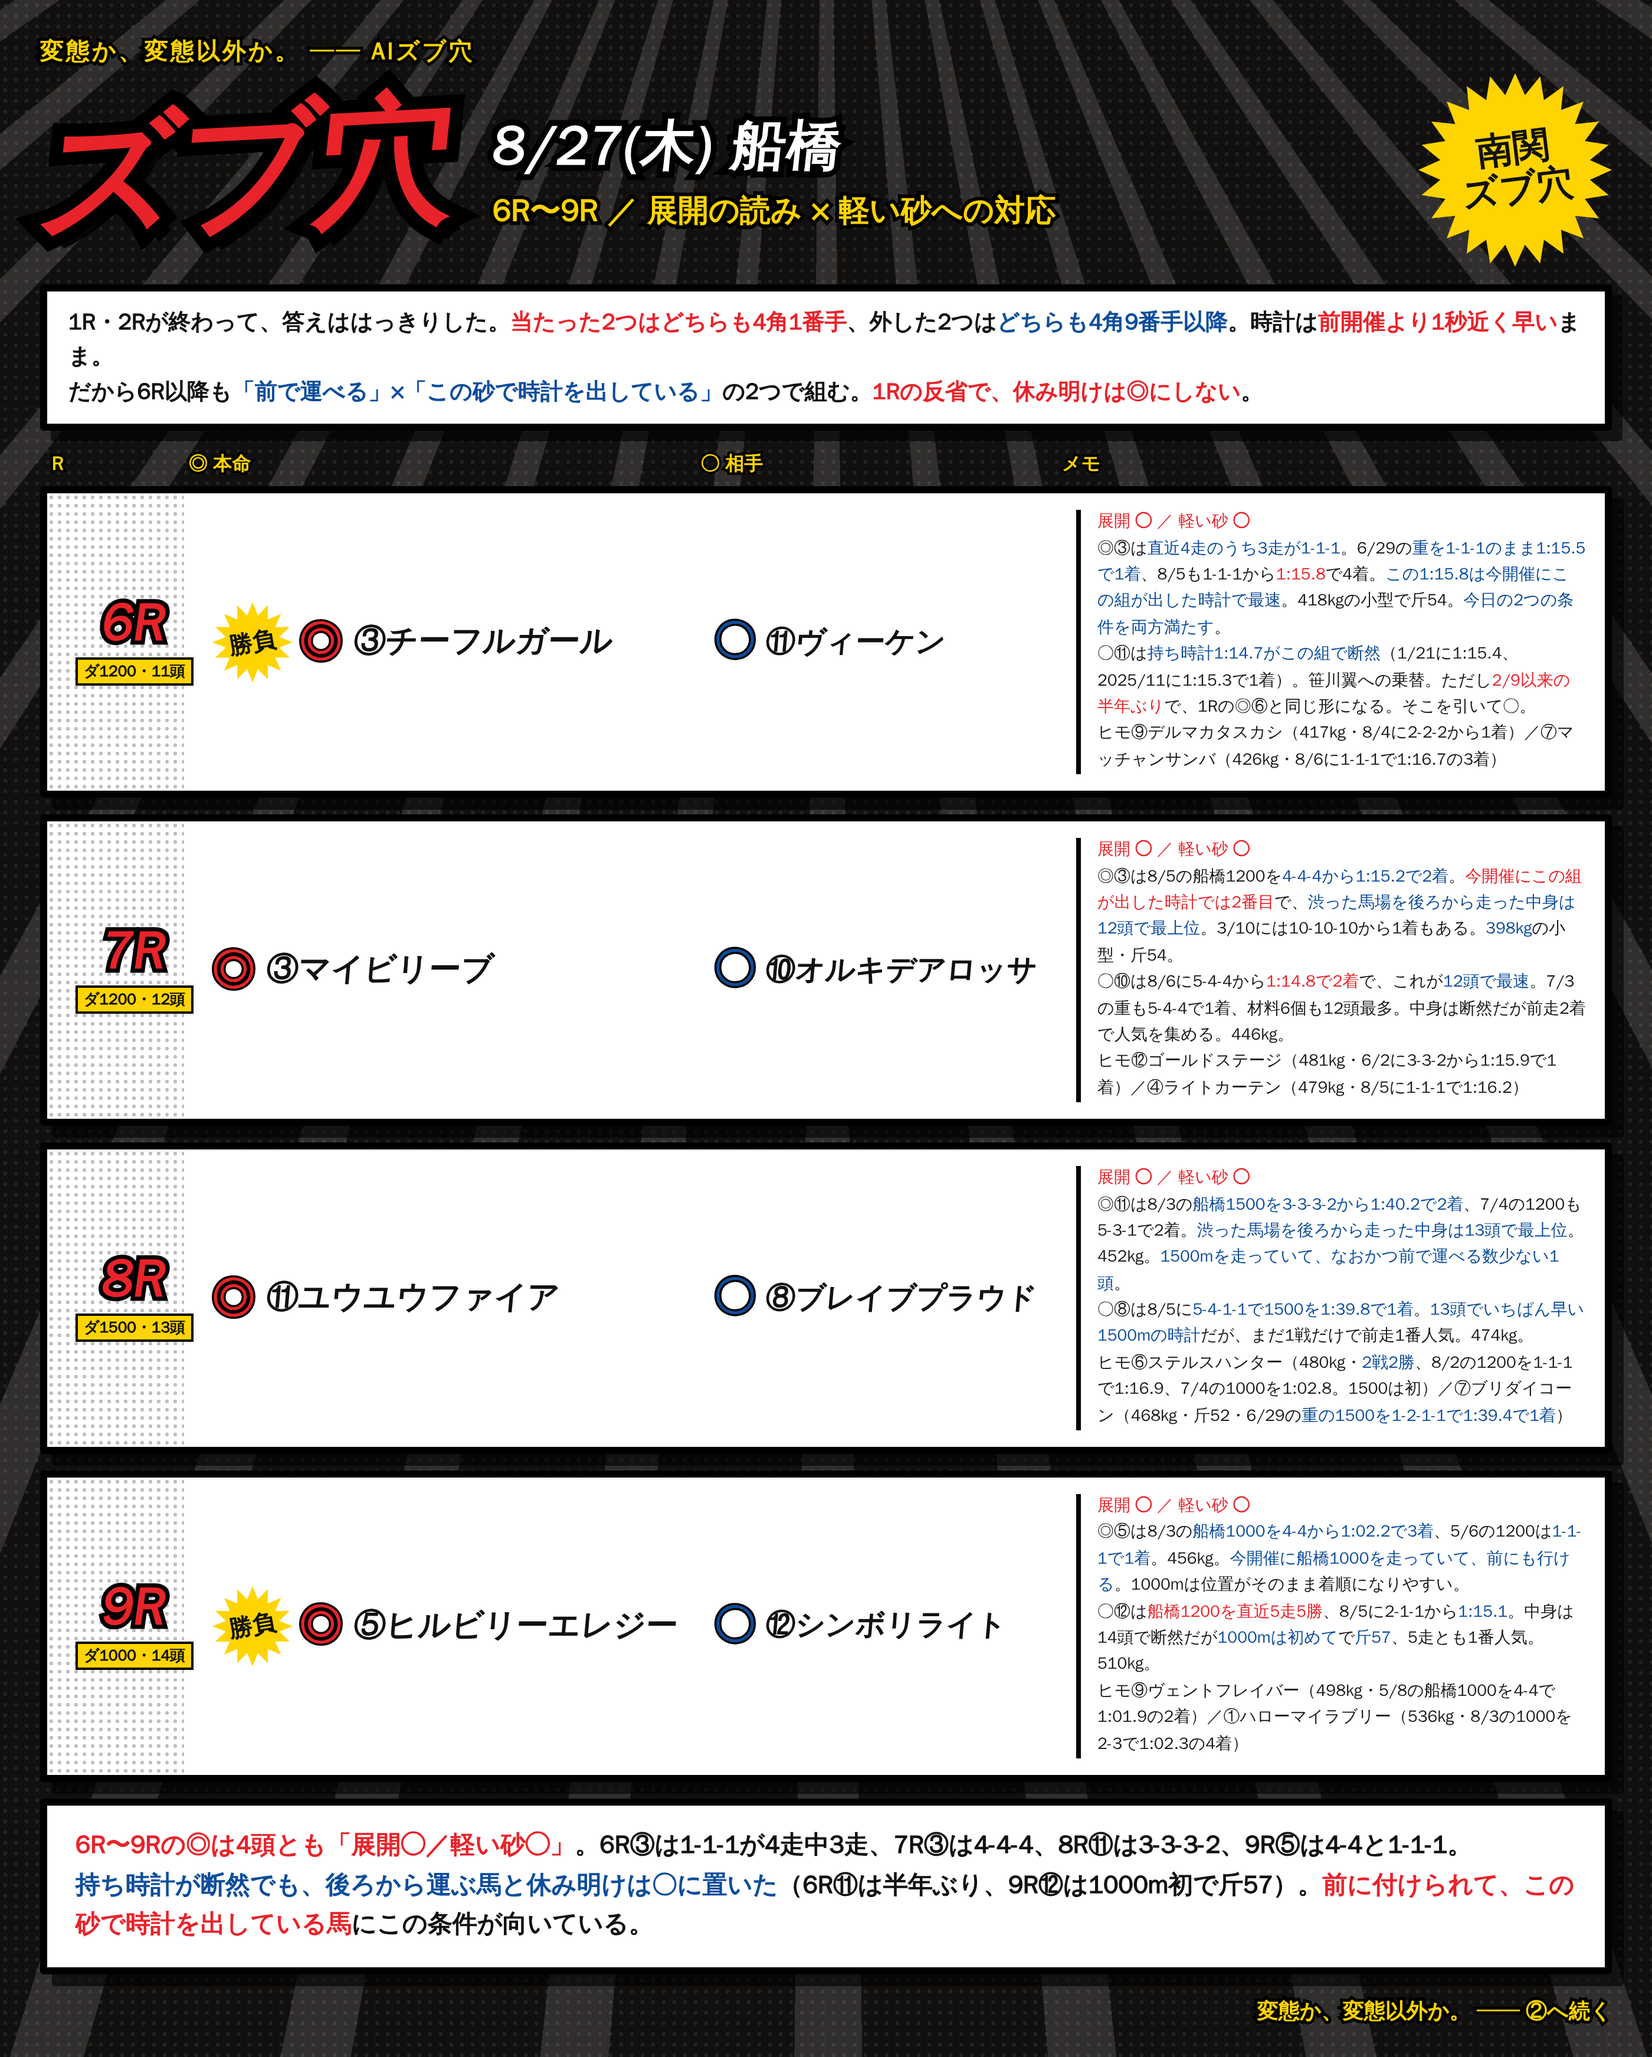
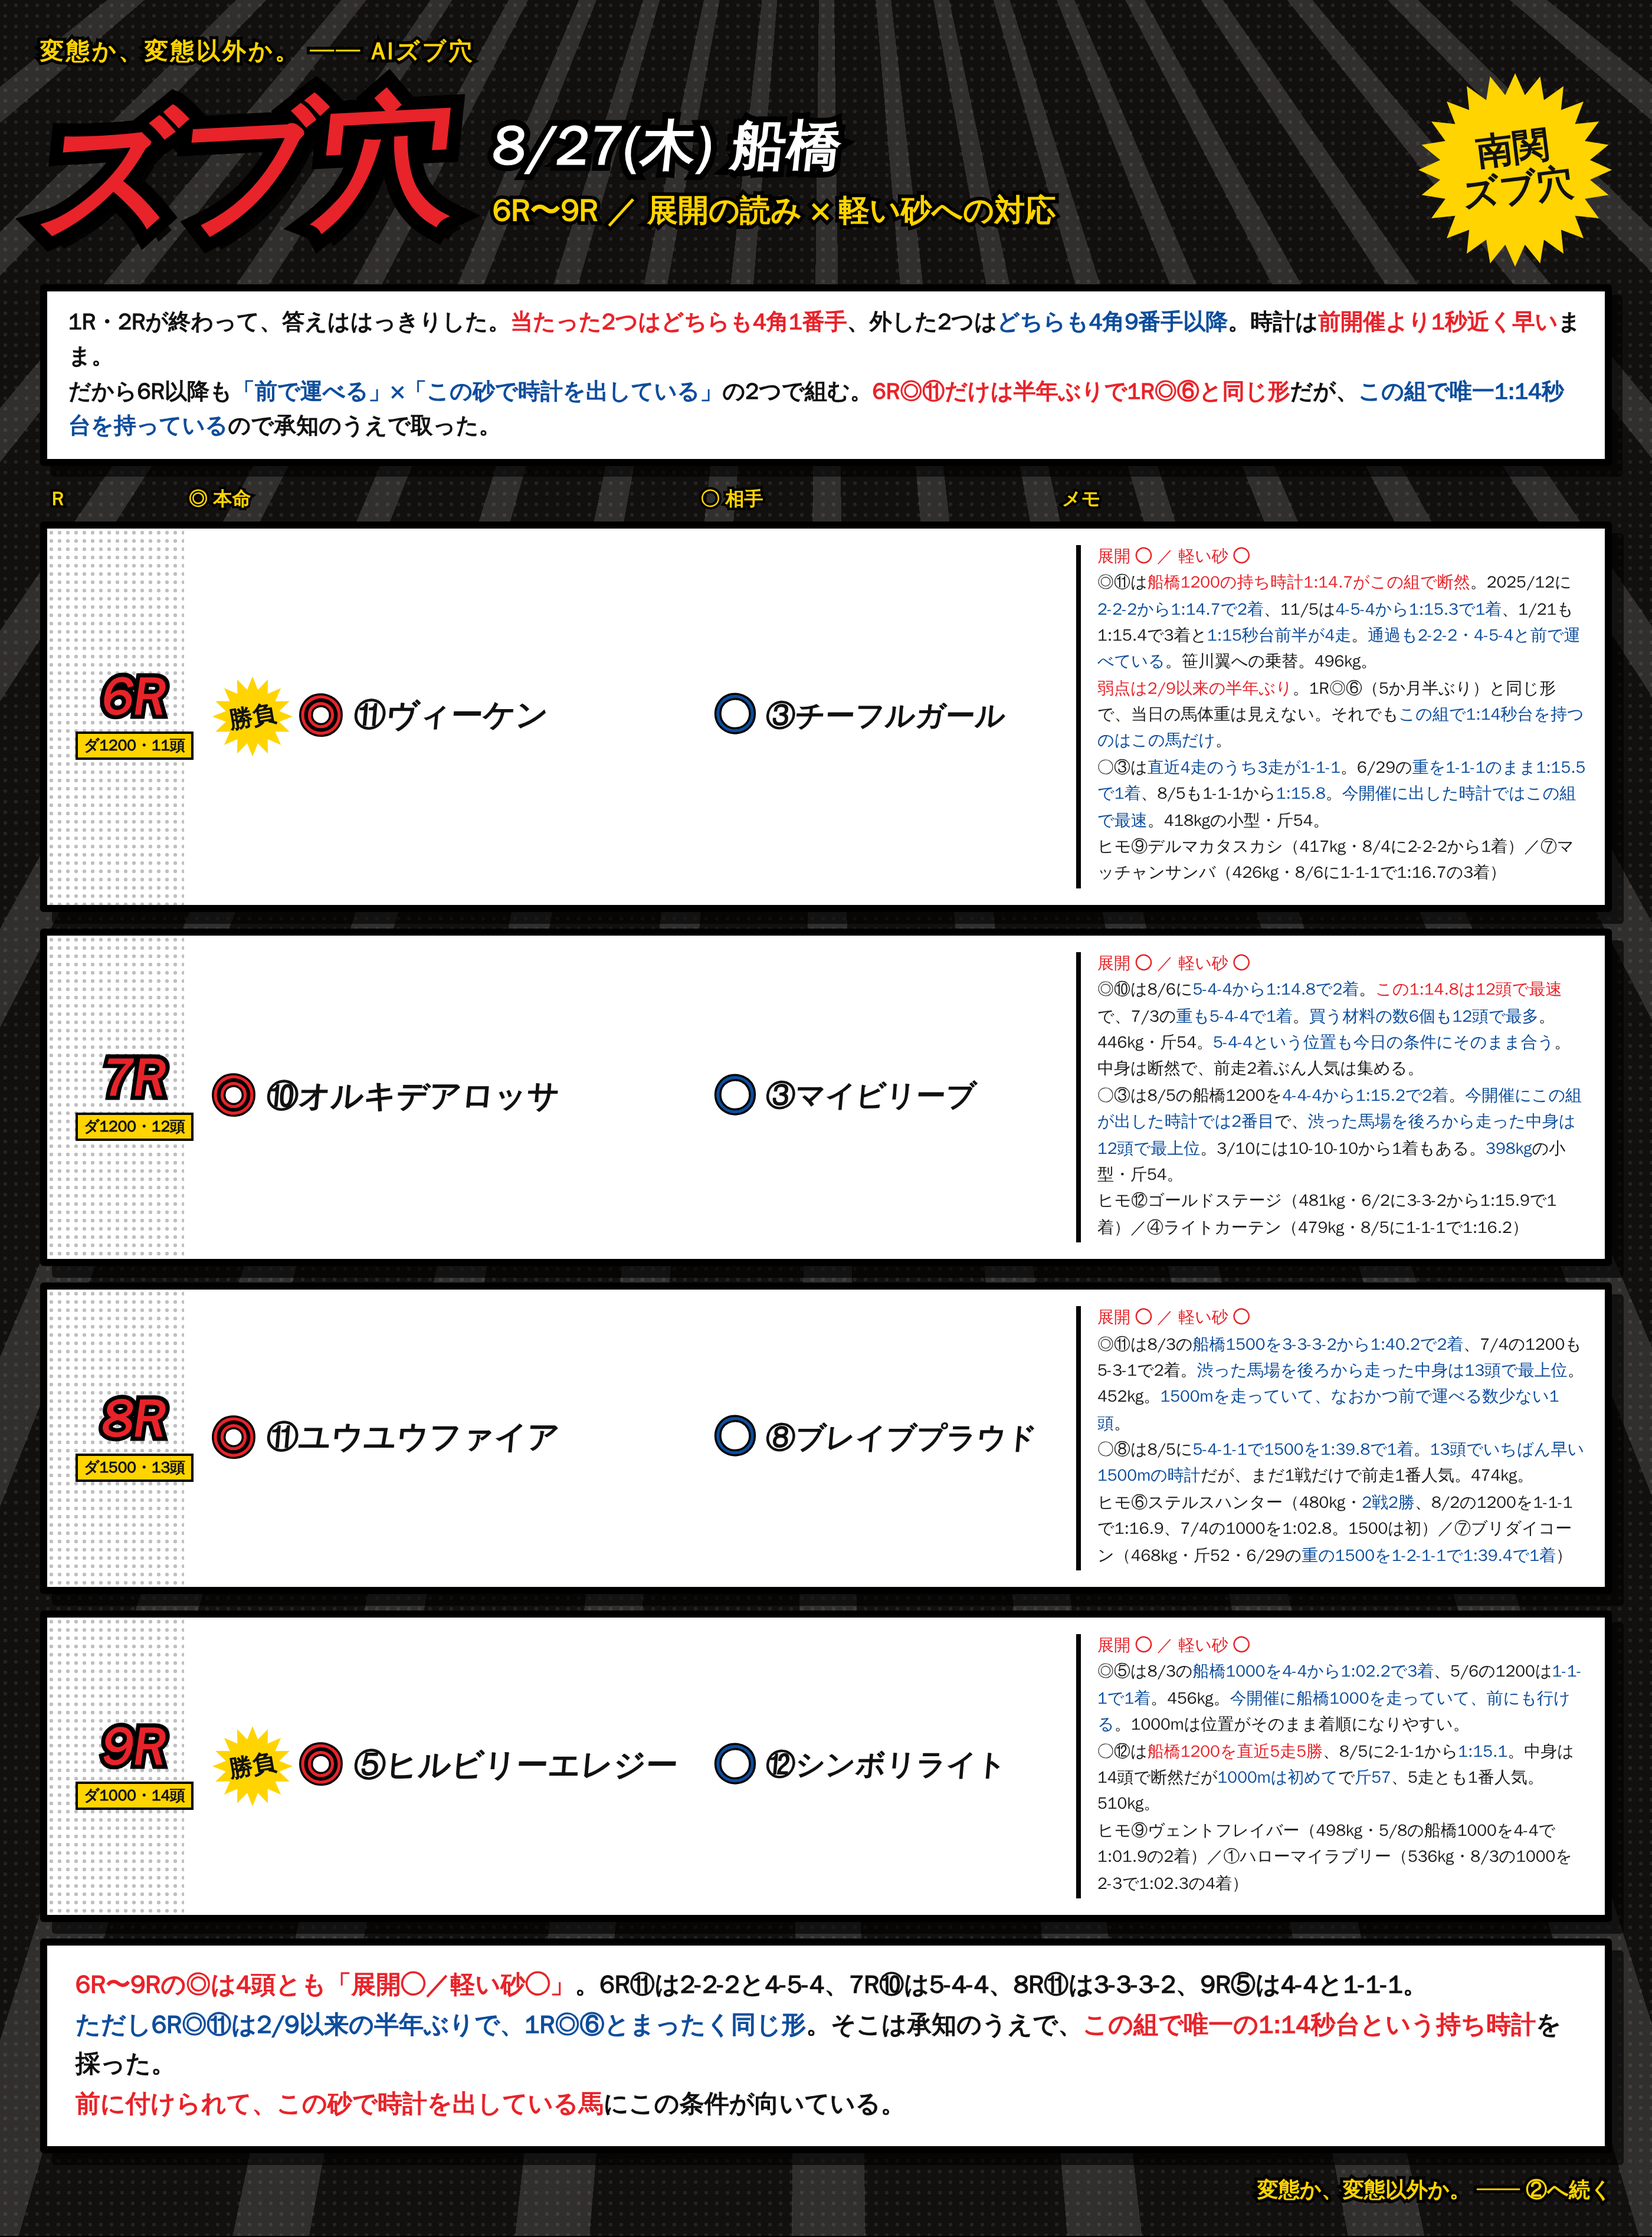
notes: 8/27 6R を ◎⑪ヴィーケン、7R を ◎⑩オルキデアロッサ に差し替え

diff --git a/notes/live/2026-08-27/funabashi_6_9.html b/notes/live/2026-08-27/funabashi_6_9.html
@@ -79,21 +79,21 @@
 <body><div class="card"><div class="lines"></div><div class="tone"></div><div class="inner">
 <div class="kicker">変態か、変態以外か。 ── AIズブ穴</div>
 <div class="head"><div class="gekiga">ズブ穴</div><div class="dateblk"><div class="d1">8/27(木) 船橋</div><div class="d2">6R〜9R ／ 展開の読み × 軽い砂への対応</div></div><div class="burst"><span>南関<br>ズブ穴</span></div></div>
-<div class="lead">1R・2Rが終わって、答えははっきりした。<span class="r">当たった2つはどちらも4角1番手</span>、外した2つは<span class="b">どちらも4角9番手以降</span>。時計は<span class="r">前開催より1秒近く早い</span>まま。<br>だから6R以降も<span class="b">「前で運べる」×「この砂で時計を出している」</span>の2つで組む。<span class="r">1Rの反省で、休み明けは◎にしない</span>。</div>
+<div class="lead">1R・2Rが終わって、答えははっきりした。<span class="r">当たった2つはどちらも4角1番手</span>、外した2つは<span class="b">どちらも4角9番手以降</span>。時計は<span class="r">前開催より1秒近く早い</span>まま。<br>だから6R以降も<span class="b">「前で運べる」×「この砂で時計を出している」</span>の2つで組む。<span class="r">6R◎⑪だけは半年ぶりで1R◎⑥と同じ形</span>だが、<span class="b">この組で唯一1:14秒台を持っている</span>ので承知のうえで取った。</div>
 <div class="cols"><div class="cR">R</div><div class="cH">◎ 本命</div><div class="cA">○ 相手</div><div class="cM">メモ</div></div>
 
   <div class="row"><div class="corner"></div>
     <div class="rN"><div class="n">6R</div><div class="d">ダ1200・11頭</div></div>
-    <div class="hm"><div class="sb"><span>勝負</span></div><span class="mk">◎</span><span class="nm">③チーフルガール</span></div>
-    <div class="at"><span class="mk2">○</span><span class="nm2">⑪ヴィーケン</span></div>
-    <div class="memo"><b class='r'>展開 ◯ ／ 軽い砂 ◯</b><br>◎③は<b>直近4走のうち3走が1-1-1</b>。6/29の<b>重を1-1-1のまま1:15.5で1着</b>、8/5も1-1-1から<b class='r'>1:15.8</b>で4着。<b>この1:15.8は今開催にこの組が出した時計で最速</b>。418kgの小型で斤54。<b>今日の2つの条件を両方満たす</b>。<br>○⑪は<b>持ち時計1:14.7がこの組で断然</b>（1/21に1:15.4、2025/11に1:15.3で1着）。笹川翼への乗替。ただし<b class='r'>2/9以来の半年ぶり</b>で、1Rの◎⑥と同じ形になる。そこを引いて○。<br>ヒモ⑨デルマカタスカシ（417kg・8/4に2-2-2から1着）／⑦マッチャンサンバ（426kg・8/6に1-1-1で1:16.7の3着）</div>
+    <div class="hm"><div class="sb"><span>勝負</span></div><span class="mk">◎</span><span class="nm">⑪ヴィーケン</span></div>
+    <div class="at"><span class="mk2">○</span><span class="nm2">③チーフルガール</span></div>
+    <div class="memo"><b class='r'>展開 ◯ ／ 軽い砂 ◯</b><br>◎⑪は<b class='r'>船橋1200の持ち時計1:14.7がこの組で断然</b>。2025/12に<b>2-2-2から1:14.7で2着</b>、11/5は<b>4-5-4から1:15.3で1着</b>、1/21も1:15.4で3着と<b>1:15秒台前半が4走</b>。<b>通過も2-2-2・4-5-4と前で運べている</b>。笹川翼への乗替。496kg。<br><b class='r'>弱点は2/9以来の半年ぶり</b>。1R◎⑥（5か月半ぶり）と同じ形で、当日の馬体重は見えない。それでも<b>この組で1:14秒台を持つのはこの馬だけ</b>。<br>○③は<b>直近4走のうち3走が1-1-1</b>。6/29の<b>重を1-1-1のまま1:15.5で1着</b>、8/5も1-1-1から<b>1:15.8</b>。<b>今開催に出した時計ではこの組で最速</b>。418kgの小型・斤54。<br>ヒモ⑨デルマカタスカシ（417kg・8/4に2-2-2から1着）／⑦マッチャンサンバ（426kg・8/6に1-1-1で1:16.7の3着）</div>
   </div>
 
   <div class="row"><div class="corner"></div>
     <div class="rN"><div class="n">7R</div><div class="d">ダ1200・12頭</div></div>
-    <div class="hm"><span class="mk">◎</span><span class="nm">③マイビリーブ</span></div>
-    <div class="at"><span class="mk2">○</span><span class="nm2">⑩オルキデアロッサ</span></div>
-    <div class="memo"><b class='r'>展開 ◯ ／ 軽い砂 ◯</b><br>◎③は8/5の船橋1200を<b>4-4-4から1:15.2で2着</b>。<b class='r'>今開催にこの組が出した時計では2番目</b>で、<b>渋った馬場を後ろから走った中身は12頭で最上位</b>。3/10には10-10-10から1着もある。<b>398kg</b>の小型・斤54。<br>○⑩は8/6に5-4-4から<b class='r'>1:14.8で2着</b>で、これが<b>12頭で最速</b>。7/3の重も5-4-4で1着、材料6個も12頭最多。中身は断然だが前走2着で人気を集める。446kg。<br>ヒモ⑫ゴールドステージ（481kg・6/2に3-3-2から1:15.9で1着）／④ライトカーテン（479kg・8/5に1-1-1で1:16.2）</div>
+    <div class="hm"><span class="mk">◎</span><span class="nm">⑩オルキデアロッサ</span></div>
+    <div class="at"><span class="mk2">○</span><span class="nm2">③マイビリーブ</span></div>
+    <div class="memo"><b class='r'>展開 ◯ ／ 軽い砂 ◯</b><br>◎⑩は8/6に<b>5-4-4から1:14.8で2着</b>。<b class='r'>この1:14.8は12頭で最速</b>で、7/3の<b>重も5-4-4で1着</b>。<b>買う材料の数6個も12頭で最多</b>。446kg・斤54。<b>5-4-4という位置も今日の条件にそのまま合う</b>。中身は断然で、前走2着ぶん人気は集める。<br>○③は8/5の船橋1200を<b>4-4-4から1:15.2で2着</b>。<b>今開催にこの組が出した時計では2番目</b>で、<b>渋った馬場を後ろから走った中身は12頭で最上位</b>。3/10には10-10-10から1着もある。<b>398kg</b>の小型・斤54。<br>ヒモ⑫ゴールドステージ（481kg・6/2に3-3-2から1:15.9で1着）／④ライトカーテン（479kg・8/5に1-1-1で1:16.2）</div>
   </div>
 
   <div class="row"><div class="corner"></div>
@@ -109,6 +109,6 @@
     <div class="at"><span class="mk2">○</span><span class="nm2">⑫シンボリライト</span></div>
     <div class="memo"><b class='r'>展開 ◯ ／ 軽い砂 ◯</b><br>◎⑤は8/3の<b>船橋1000を4-4から1:02.2で3着</b>、5/6の1200は<b>1-1-1で1着</b>。456kg。<b>今開催に船橋1000を走っていて、前にも行ける</b>。1000mは位置がそのまま着順になりやすい。<br>○⑫は<b class='r'>船橋1200を直近5走5勝</b>、8/5に2-1-1から<b>1:15.1</b>。中身は14頭で断然だが<b>1000mは初めて</b>で<b>斤57</b>、5走とも1番人気。510kg。<br>ヒモ⑨ヴェントフレイバー（498kg・5/8の船橋1000を4-4で1:01.9の2着）／①ハローマイラブリー（536kg・8/3の1000を2-3で1:02.3の4着）</div>
   </div>
-<div class="foot"><span class="r">6R〜9Rの◎は4頭とも「展開◯／軽い砂◯」</span>。6R③は1-1-1が4走中3走、7R③は4-4-4、8R⑪は3-3-3-2、9R⑤は4-4と1-1-1。<br><span class="b">持ち時計が断然でも、後ろから運ぶ馬と休み明けは○に置いた</span>（6R⑪は半年ぶり、9R⑫は1000m初で斤57）。<span class="r">前に付けられて、この砂で時計を出している馬</span>にこの条件が向いている。</div>
+<div class="foot"><span class="r">6R〜9Rの◎は4頭とも「展開◯／軽い砂◯」</span>。6R⑪は2-2-2と4-5-4、7R⑩は5-4-4、8R⑪は3-3-3-2、9R⑤は4-4と1-1-1。<br><span class="b">ただし6R◎⑪は2/9以来の半年ぶりで、1R◎⑥とまったく同じ形</span>。そこは承知のうえで、<span class="r">この組で唯一の1:14秒台という持ち時計</span>を採った。<br><span class="r">前に付けられて、この砂で時計を出している馬</span>にこの条件が向いている。</div>
 <div class="sig">変態か、変態以外か。 ── ②へ続く</div>
 </div></div></body></html>

diff --git a/notes/live/2026-08-27/README.md b/notes/live/2026-08-27/README.md
@@ -531,8 +531,8 @@ HTML: 同名 `.html`
 
 | R | 条件 | ◎ 本命 | ○ 相手 | ヒモ | 展開／軽い砂 |
 |---|---|---|---|---|---|
-| 6R 勝負 | ダ1200・11頭 | ③チーフルガール | ⑪ヴィーケン | ⑨⑦ | ◯／◯ |
-| 7R | ダ1200・12頭 | ③マイビリーブ | ⑩オルキデアロッサ | ⑫④ | ◯／◯ |
+| 6R 勝負 | ダ1200・11頭 | **⑪ヴィーケン** | ③チーフルガール | ⑨⑦ | ◯／◯ |
+| 7R | ダ1200・12頭 | **⑩オルキデアロッサ** | ③マイビリーブ | ⑫④ | ◯／◯ |
 | 8R | ダ1500・13頭 | ⑪ユウユウファイア | ⑧ブレイブプラウド | ⑥⑦ | ◯／◯ |
 | 9R 勝負 | ダ1000・14頭 | ⑤ヒルビリーエレジー | ⑫シンボリライト | ⑨① | ◯／◯ |
 | 10R | ダ1600・10頭 | ⑧タイセイバンクール | ⑩バーリフレイバー | ②④ | ◯／**△** |
@@ -570,3 +570,36 @@ HTML: 同名 `.html`
 
 トリプル馬単は「その距離・そのコースでいちばん勝っている馬」を1着に固定、
 ズブ穴は方針どおり**人気を被らない馬を◎**に置いている。
+
+## 6R・7R の◎○入れ替え
+
+初版の6R・7Rを**◎と○で入れ替えた**。
+
+| R | 初版 ◎ → ○ | 差し替え後 ◎ | ○ |
+|---|---|---|---|
+| 6R | ③チーフルガール | **⑪ヴィーケン** | ③チーフルガール |
+| 7R | ③マイビリーブ | **⑩オルキデアロッサ** | ③マイビリーブ |
+
+### 6R ◎⑪ヴィーケン（496kg・斤56・笹川翼）
+
+| 日付 | 時計 | 上がり | 通過 | 着/人気 |
+|---|---|---|---|---|
+| 2026-02-09 | 1:16.9 | 39.9 | 8-8-7 | 5着/1人 |
+| 2026-01-21 | 1:15.4 | 38.2 | 6-5-3 | 3着/2人 |
+| 2025-12-08 | **1:14.7** | 38.7 | **2-2-2** | 2着/5人 |
+| 2025-11-05 | 1:15.3 | 38.5 | **4-5-4** | **1着**/2人 |
+| 2025-09-30 | 1:15.3 | 37.9 | 6-6-5 | 4着/1人 |
+
+**持ち時計1:14.7はこの組で断然**で、1:15秒台前半が4走。
+通過も2-2-2・4-5-4と前で運べていて、**展開◯／軽い砂◯の両方を満たす**。
+
+**弱点は2/9以来の半年ぶり**。1R◎⑥（5か月半ぶり・+19kgで4角9番手6着）とまったく同じ形。
+リードとfootにもその一文を残し、「承知のうえで1:14秒台を採った」と明記した。
+
+### 7R ◎⑩オルキデアロッサ（446kg・斤54）
+
+8/6に**5-4-4から1:14.8で2着**。**この1:14.8は12頭で最速**で、7/3の重も5-4-4で1着。
+**買う材料の数6個も12頭で最多**。5-4-4という位置も今日の条件にそのまま合う。
+
+○③マイビリーブ（398kg）は8/5に4-4-4から1:15.2で2着。今開催では2番目の時計で、
+渋った馬場を後ろから走った中身は12頭で最上位。
